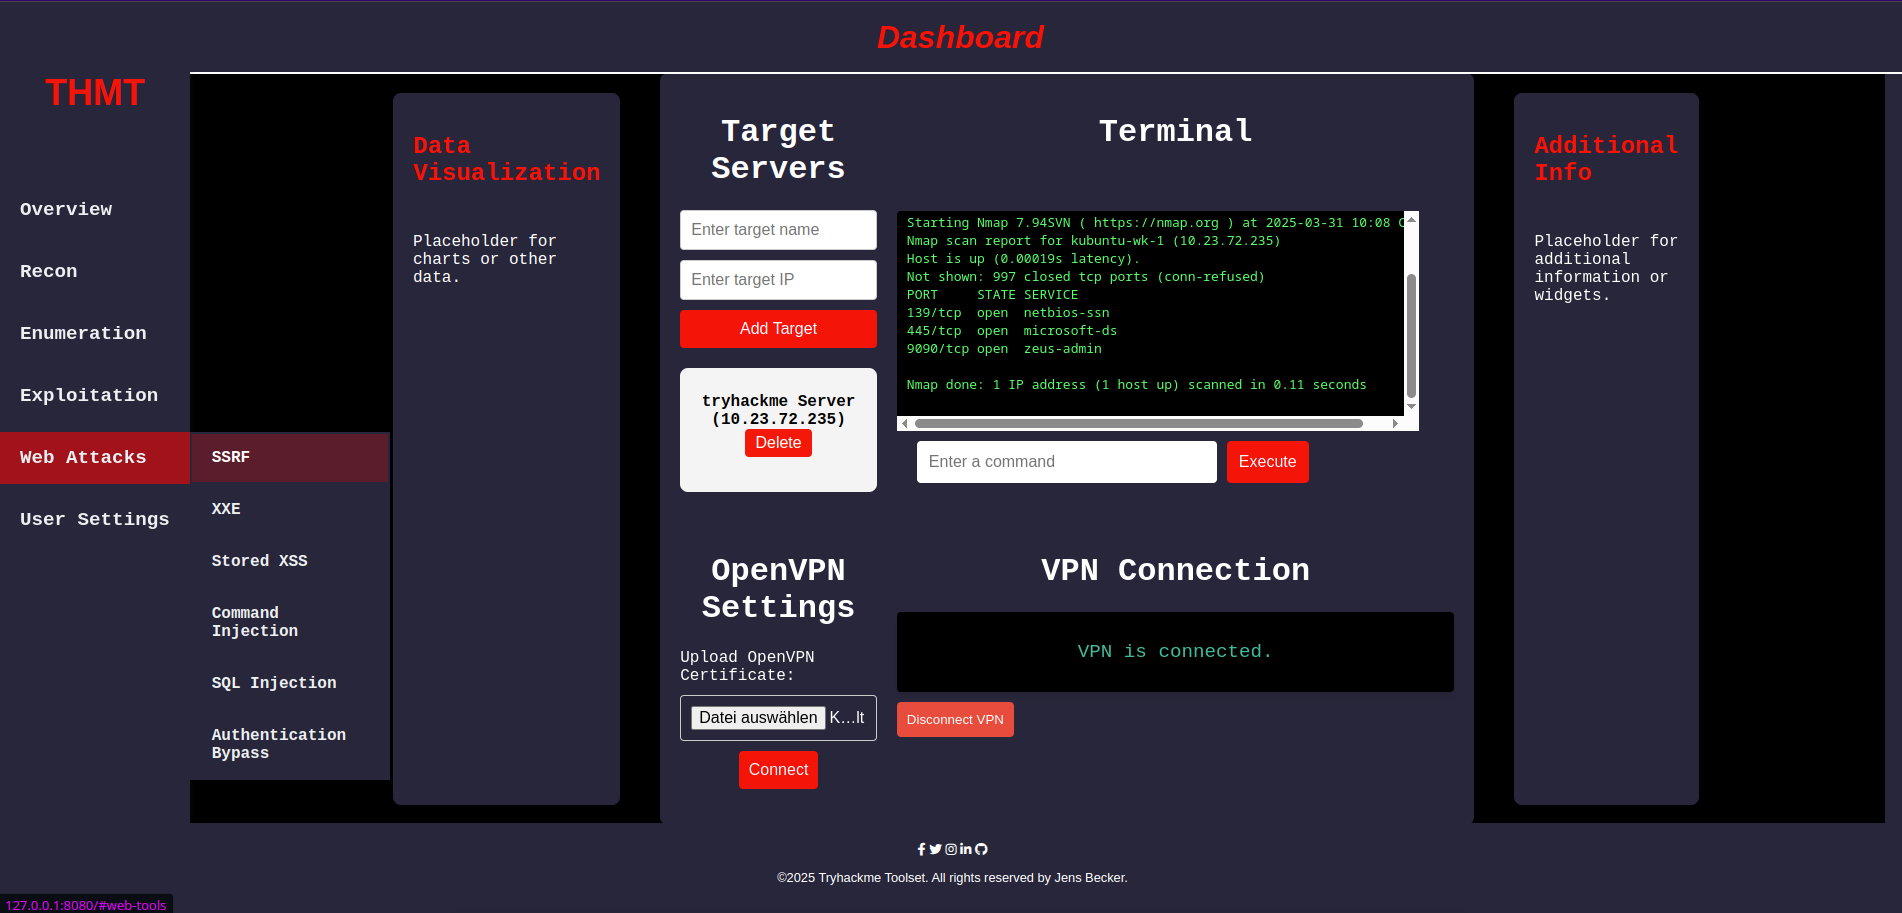
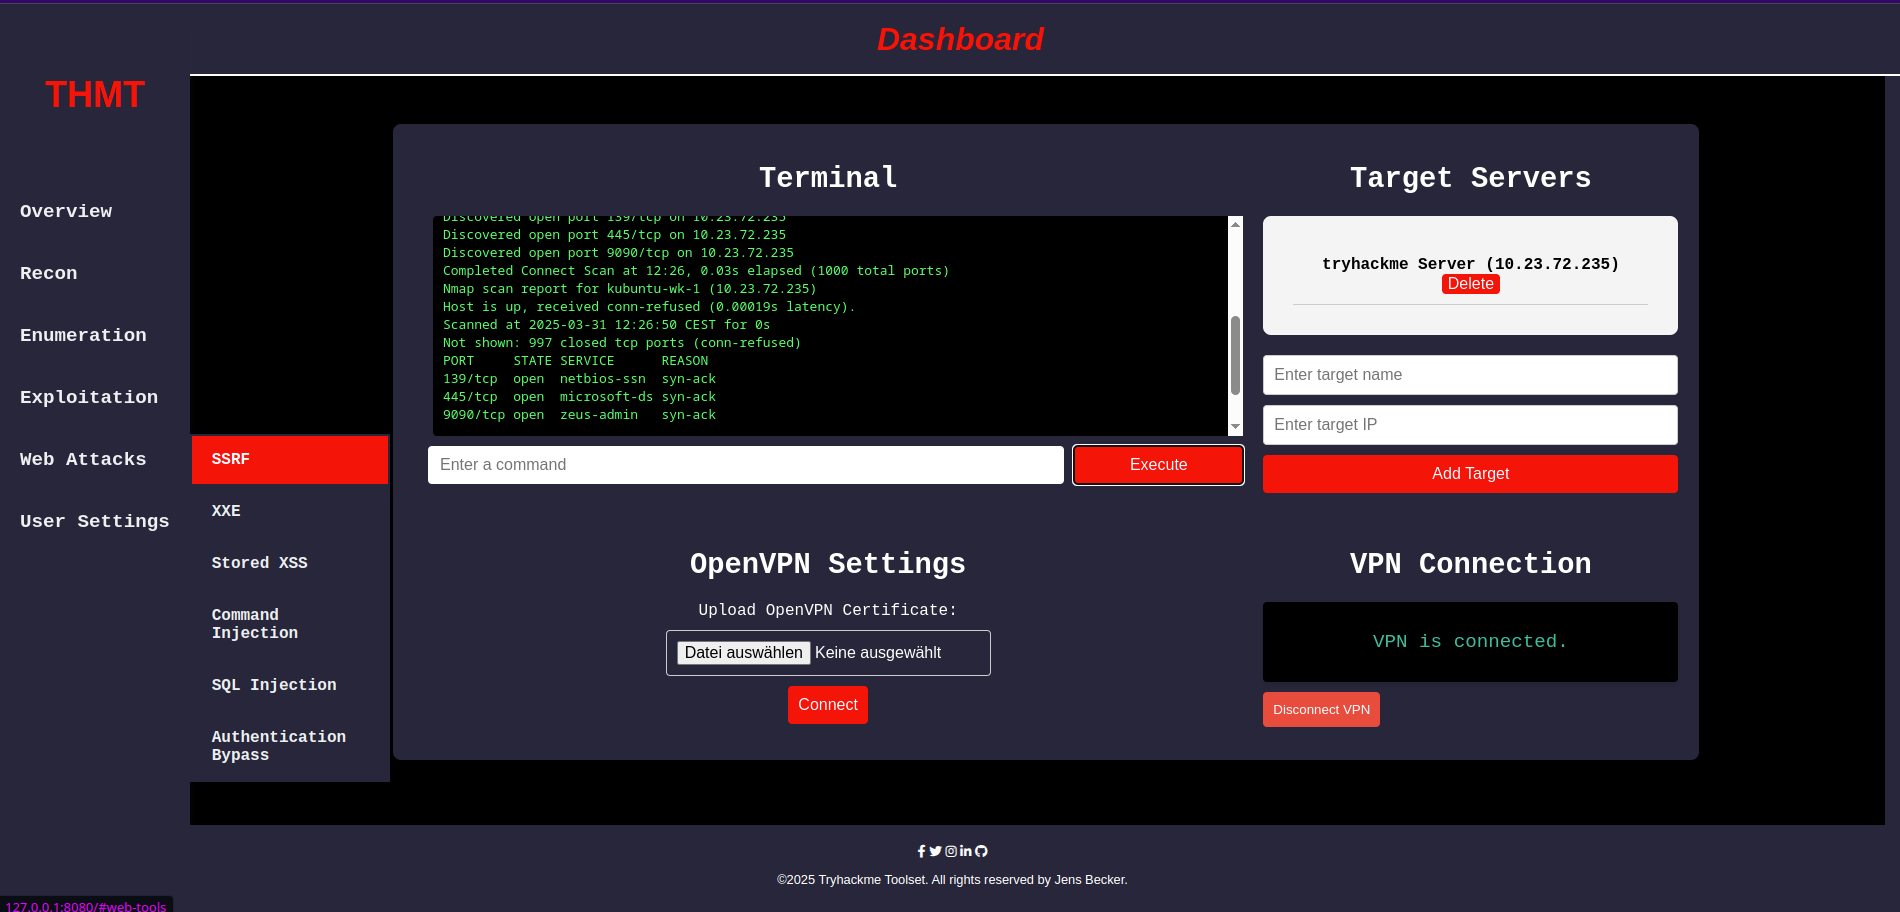
fixed dashboard and updated README

diff --git a/backend/static/styles.css b/backend/static/styles.css
@@ -335,16 +335,6 @@ img {
     gap: 10px;
 }
 
-.left-panel {
-    float: left;
-    margin-right: 20px;
-}
-
-.right-panel {
-    float: right;
-    margin-left: 20px;
-}
-
 /* Main Dashboard Grid */
 .dashboard-container {
     display: flex;
@@ -356,13 +346,18 @@ img {
 .dashboard-grid {
     flex-grow: 1;
     display: grid;
-    grid-template-columns: 1fr 1fr; /* Two columns */
     grid-template-rows: auto; /* Adjust rows automatically */
     gap: 20px;
     padding: 20px;
     background-color: #28263a;
     border-radius: 8px;
     box-shadow: 0 4px 6px rgba(0, 0, 0, 0.1);
+}
+
+.dashboard-section h1 {
+    font-size: 1.8em;
+    margin-bottom: 20px;
+    color: #ffffff;
 }
 
 /* Section Titles */
@@ -377,8 +372,6 @@ img {
     display: flex;
     flex-direction: column;
     gap: 10px;
-    width: 100%;
-    max-width: 300px;
 }
 
 #target-form input {
@@ -398,6 +391,7 @@ img {
     border-radius: 4px;
     cursor: pointer;
     transition: background-color 0.3s ease;
+    width: auto;
 }
 
 #target-form button:hover {
@@ -405,9 +399,9 @@ img {
 }
 
 /* Responsive Design */
-@media (max-width: 900px) {
+@media (max-width: 768px) {
     .dashboard-grid {
-        grid-template-columns: 1fr; /* Single column for smaller screens */
+        grid-template-columns: 1fr;
         grid-template-rows: auto;  /* Adjust rows automatically */
     }
 }
@@ -415,55 +409,59 @@ img {
 .target-list {
     list-style: none;
     padding: 0;
-    margin: 0;
+    margin: 10px;
+    width: auto;
 }
+
+.target-list li {
+    padding: 10px;
+    border-bottom: 1px solid #ccc;
+    color: #34495e;
+}
+
 .target-list-btn {
-    margin-top: 2%;
-    margin-bottom: 2%;
-    padding-top: 2%;
     font-size: 1em;
     background-color: #ff0000;
     color: #fff;
 }
+
 .target-list li {
     /* Style for Target List Items */
     color: #000000; /* Set text color to black */
     font-size: 1em;
-    padding: 5px 0;
 }
 
 .target-list li span {
     font-size: 1em;
     color: #34495e;
     font-weight: bold;
-    margin-right: 10px;
 }
+
 .target-list li button {
-    padding: 5px 10px;
     font-size: 1em;
-    background-color: #ff1900;
+    background-color: #ff0000;
     color: #fff;
     border: 2px;
     border-radius: 4px;
     cursor: pointer;
 }
+
 .target-list li button:hover {
-    background-color: #c0392b;
+    background-color: #ff0000;
 }
+
 .target-list-btn {
-    margin-top: 2%;
-    margin-bottom: 2%;
     padding-top: 2%;
     font-size: 1em;
     background-color: #ff0000;
     color: #fff;
 }
+
+.target-list-btn:hover {
+    background-color: #ff0000;
+}
+
 #list-target-btn button {
-    margin-top: 2%;
-    margin-bottom: 2%;
-    margin-left: 50px;
-    padding-left: 50px;
-    padding-right: auto;
     padding-top: 2%;
     font-size: 1em;
     background-color: #ff0000;
@@ -488,8 +486,7 @@ img {
     font-size: 1em;
     border: 1px solid #ccc;
     border-radius: 4px;
-    width: 100%;
-    max-width: 300px;
+    max-width: 100%;
 }
 
 #vpn-form button {
@@ -520,22 +517,18 @@ img {
 
 /* Modal styling */
 .modal {
-    display: none;
-    position: fixed;
+    display: flex;
+    position: static;
     z-index: 1000;
-    left: 0;
-    top: 0;
-    width: 100%;
-    height: 100%;
     overflow: auto;
     background-color: rgba(0, 0, 0, 0.5);
 }
 .modal-content {
     background-color: #ffffff;
-    margin: 10% auto;
-    padding: 20px;
+    margin: 10%;
+    padding: 10px;
     border-radius: 8px;
-    width: 50%;
+            
     box-shadow: #28263a;
     text-align: center;
 }
@@ -571,33 +564,35 @@ img {
 /* Terminal Panel Styling */
 #terminal-form {
     display: flex;
+    flex-direction: column;
     flex-direction: row; /* Align items in a row */
     gap: 10px; /* Add spacing between the input and button */
     align-items: left; /* Align items vertically */
     justify-items: left;
     margin-top: 10px;
     width: 100%;
+            
 }
 
 #terminal-form label {
     font-size: 1em;
     color: #ffffff;
-    width: auto; /* Adjust width to fit content */
     height: 12px;
-    margin-right: 10px; /* Add spacing between label and input */
+    margin-right: 5px; /* Add spacing between label and input */
 }
 
 #terminal-form input {
-    padding: 10px;
+    padding-left: 10px;
     font-size: 1em;
     border: 2px solid #ffffff;
     border-radius: 4px;
     width: 200%; /* Adjust width to fill available space */
-    max-width: 300px;
+    max-width: auto;
 }
 
 #terminal-form button {
-    padding: 12px;
+    padding: 10px;
+    width: 50%;
     font-size: 1em;
     background-color: #ff0000;
     color: #fff;
@@ -613,19 +608,15 @@ img {
 
 #terminal-output {
     padding: 20px;
+    margin-left:20px;
     background-color: #000000;
     color: #ffffff;
     border-radius: 4px;
-    border-color: #ffffff;
     border: 2px;
-    max-height: 200px;
-    width: 90%;
-    height: 150%;
     overflow-y: auto;
     font-family: monospace;
     white-space: pre-wrap;
-    justify-content: left;
-    display: block;
+    width: auto;
 }
 
 .social-link {
@@ -666,8 +657,8 @@ footer {
     color: #ffffff;
     padding: 1%;
     bottom: 0%;
-    left: 0;
-    right: 0;
+    left: 0%;
+    right: 0%;
     position: fixed;
     background-color: #28263a;
 }

diff --git a/backend/templates/index.html b/backend/templates/index.html
@@ -32,7 +32,7 @@
                     <li class="dropdown">
                         <a href="#recon" class="dropdown-btn">Recon</a>
                         <ul class="dropdown-menu">
-                            <li><a href="#recon-tools">Port Scan</a></li>
+                            <li><a href="portscan">Port Scan</a></li>
                             <li><a href="#recon-tools">Dorking</a></li>
                             <li><a href="#recon-tools">Vulnerability Scan</a></li>
                         </ul>
@@ -79,33 +79,13 @@
             <div class="content">
                 <div class="dashboard-container">
 
-                    <!-- Left Panel -->
-                    <div class="side-panel left-panel">
-                        <h2>Data Visualization</h2>
-                        <p>Placeholder for charts or other data.</p>
-                    </div>
-
                     <!-- Main Dashboard Grid -->
                     <div class="dashboard-grid">
-                        
+
+
                         <!-- Section 1 -->
                         <div class="dashboard-section" id="section-1">
-                            <h1>Target Servers</h1>
-                            <form id="target-form">
-                                <input type="text" id="target-name" placeholder="Enter target name" required>
-                                <input type="text" id="target-ip" placeholder="Enter target IP" required>
-                                <button type="submit" id="add-target-btn">Add Target</button>
-                            </form>
-                            <div class="target-panel">
-                                <ul id="target-list" class="target-list">
-                                    <!-- Target servers will be dynamically added here -->
-                                </ul>
-                            </div>
-                        </div>
-
-                        <!-- Section 2 -->
-                        <div class="dashboard-section" id="section-2">
-                            <h1 id="terminal-title">Terminal</h1><br>
+                            <h1 id="terminal-title">Terminal</h1>
                             <div id="terminal-output" style="background-color: #000000; color: #00ff6a; padding: 10px; margin-top: 20px; height: 200px; overflow-y: auto; border-radius: 4px; font-family: monospace;">
                                 <!-- Command output will be displayed here -->
                             </div>
@@ -114,6 +94,24 @@
                                 <input type="text" id="command-input" name="command" placeholder="Enter a command" required>
                                 <button type="submit">Execute</button>
                             </form>
+                        </div>
+                        
+                        <!-- Section 2 -->
+                        <div class="dashboard-section" id="section-2">
+                            <h1>Target Servers</h1>
+                            
+                            <div class="target-panel">
+                                <ul id="target-list" class="target-list">
+                                    <!-- Target servers will be dynamically added here -->
+                                </ul>
+                            </div>
+
+                            <form id="target-form">
+                                <input type="text" id="target-name" placeholder="Enter target name" required>
+                                <input type="text" id="target-ip" placeholder="Enter target IP" required>
+                                <button type="submit" id="add-target-btn">Add Target</button>
+                            </form>
+
                         </div>
 
                         <!-- Section 3 -->
@@ -137,12 +135,6 @@
                                 Disconnect VPN
                             </button>
                         </div>
-                    </div>
-
-                    <!-- Right Panel -->
-                    <div class="side-panel right-panel">
-                        <h2>Additional Info</h2>
-                        <p>Placeholder for additional information or widgets.</p>
                     </div>
                 </div>
             </div>

diff --git a/backend/app.py b/backend/app.py
@@ -212,6 +212,27 @@ def delete_target(target_id):
     db.session.commit()
     return jsonify({"message": f"Target {target.name} deleted successfully!"})
 
+@app.route('/portscan')
+@login_required
+def portscan_page():
+    return render_template('portscan.html')
+
+@app.route('/api/portscan', methods=['POST'])
+@login_required
+def portscan():
+    target_ip = request.form.get('target-ip')
+    if not target_ip:
+        return "Target IP is required", 400
+
+    try:
+        # Run nmap for port scanning
+        result = subprocess.run(['nmap', target_ip], stdout=subprocess.PIPE, stderr=subprocess.PIPE, text=True)
+        output = result.stdout if result.returncode == 0 else result.stderr
+        return output, 200  # Return the raw output as plain text
+    except Exception as e:
+        return f"Error running port scan: {str(e)}", 500
+
+
 # Run the Flask application
 if __name__ == '__main__':
     app.run(debug=True, port=8080)
